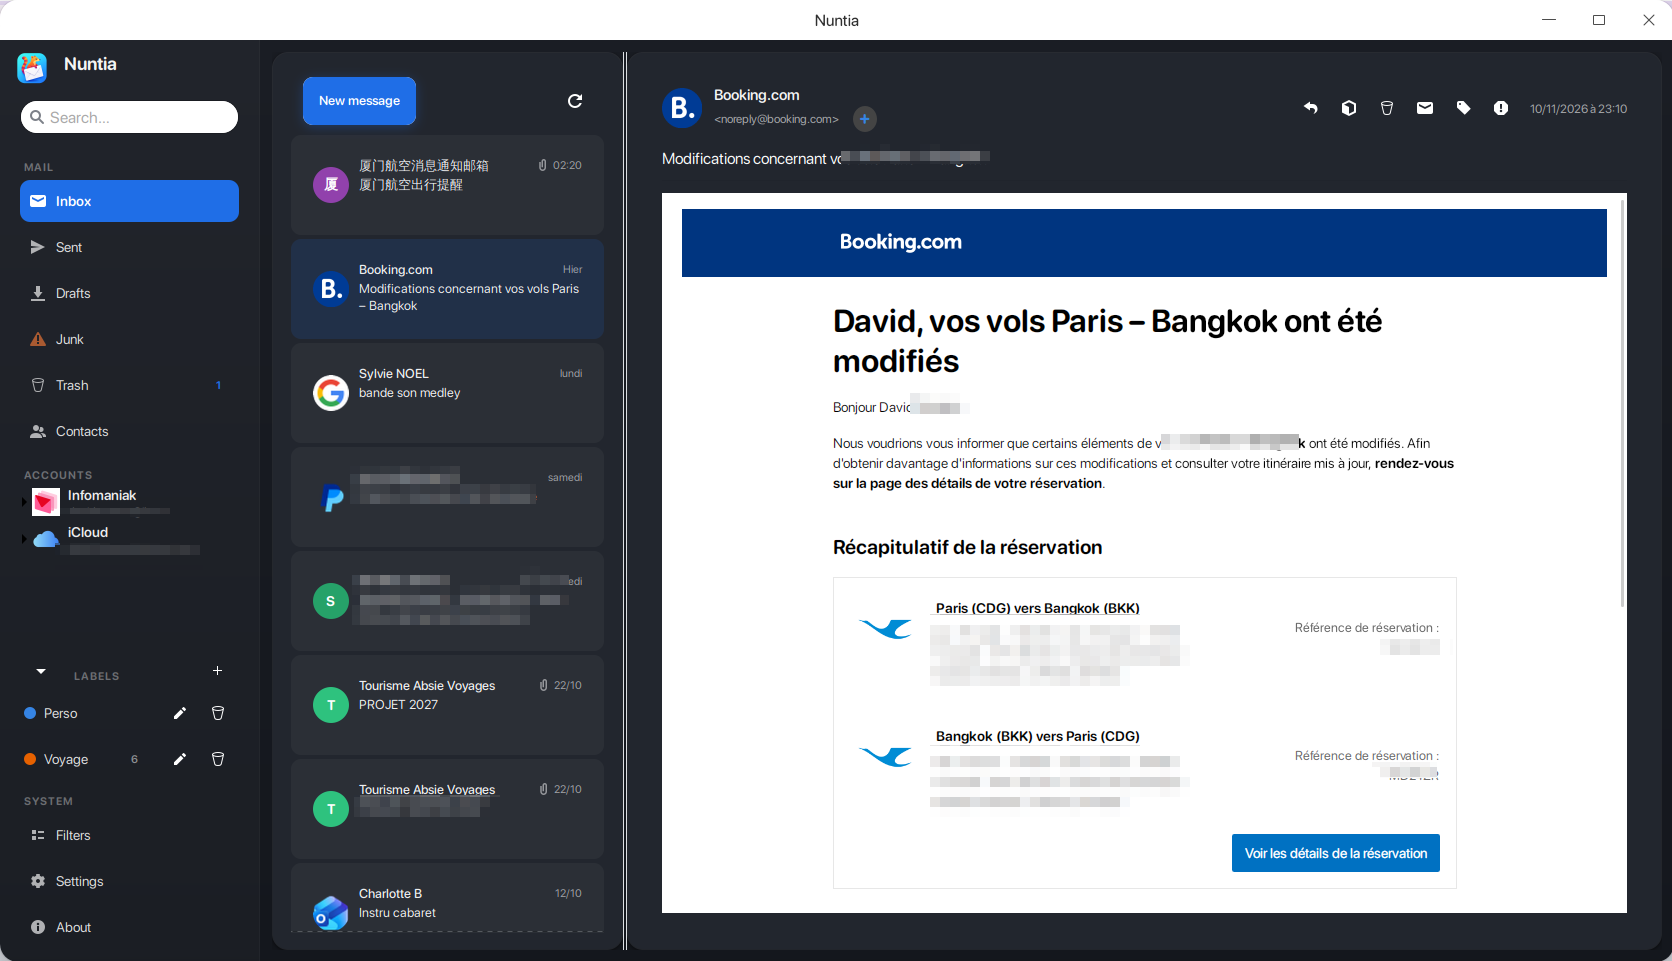
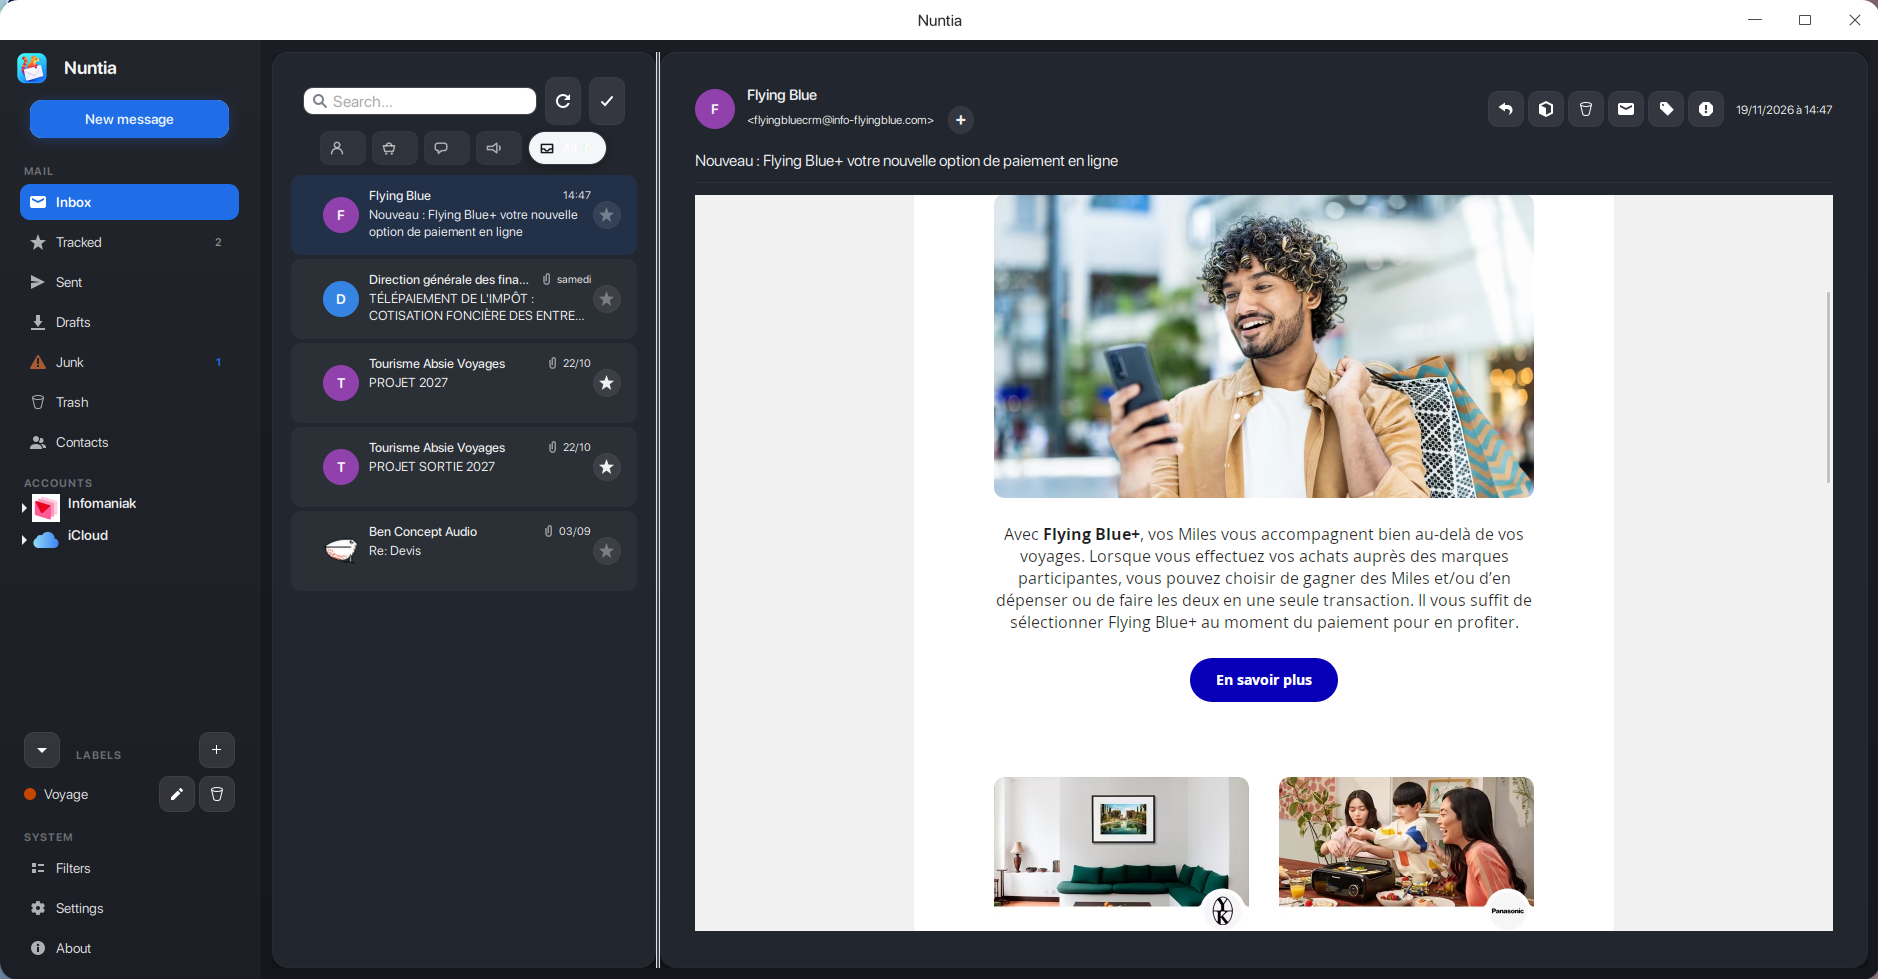
Add files via upload

diff --git a/js/i18n-nuntia.js b/js/i18n-nuntia.js
@@ -2,7 +2,12 @@ window.TRANSLATIONS = {
     en: {
         "nav_home": "Home", "nav_endura": "Endura", "nav_lumina": "Lumina", "nav_luma": "Luma", "nav_nuntia": "Nuntia",
         "hero_title": "Nuntia",
-        "hero_subtitle": "Nuntia is a modern mail client for Deepin. IMAP/SMTP, multi-account, advanced filters, 3-level phishing detection, and 8 languages.",
+		"hero_subtitle": "Nuntia is a modern mail client for Deepin. IMAP/SMTP, multi-account, advanced filters, multi-select, follow system, account editing, 3-level phishing detection, and 8 languages.",
+		"feature5_title": "Follow & organize",
+		"feature5_desc": "Star important messages and find them in a dedicated “Followed” folder. Manage emails in bulk thanks to multi-select.",
+		"feature5_li1": "Persistent star, independent from the IMAP server",
+		"feature5_li2": "Multi-select (Ctrl/Shift + click)",
+		"feature5_li3": "Full editing of existing accounts",
         "hero_btn_features": "Discover the features",
         "hero_btn_download": "Download",
         "footer_bug": "Report a bug",
@@ -39,7 +44,12 @@ window.TRANSLATIONS = {
     fr: {
         "nav_home": "Accueil", "nav_endura": "Endura", "nav_lumina": "Lumina", "nav_luma": "Luma", "nav_nuntia": "Nuntia",
         "hero_title": "Nuntia",
-        "hero_subtitle": "Nuntia est un client mail moderne pour Deepin. IMAP/SMTP, multi-comptes, filtres avancés, détection de phishing à 3 niveaux et 8 langues.",
+		"hero_subtitle": "Nuntia est un client mail moderne pour Deepin. IMAP/SMTP, multi-comptes, filtres avancés, sélection multiple, suivi par étoile, édition de comptes, détection de phishing à 3 niveaux et 8 langues.",
+		"feature5_title": "Suivi et organisation",
+		"feature5_desc": "Marquez vos messages importants d'une étoile, retrouvez-les dans un dossier « Suivis » dédié, et gérez vos mails en masse grâce à la sélection multiple.",
+		"feature5_li1": "Étoile persistante, indépendante du serveur IMAP",
+		"feature5_li2": "Sélection multiple (Ctrl/Shift + clic)",
+		"feature5_li3": "Édition complète des comptes existants",
         "hero_btn_features": "Découvrir les fonctionnalités",
         "hero_btn_download": "Télécharger",
         "footer_bug": "Signaler un bug",
@@ -76,7 +86,12 @@ window.TRANSLATIONS = {
     zh: {
         "nav_home": "首页", "nav_endura": "Endura", "nav_lumina": "Lumina", "nav_luma": "Luma", "nav_nuntia": "Nuntia",
         "hero_title": "Nuntia",
-        "hero_subtitle": "Nuntia 是专为 Deepin 打造的现代邮件客户端。支持 IMAP/SMTP、多账户、高级过滤器、3 级钓鱼检测及 8 种语言。",
+		"hero_subtitle": "Nuntia 是专为 Deepin 打造的现代邮件客户端。支持 IMAP/SMTP、多账户、高级过滤器、多选操作、星标关注、账户编辑、3 级钓鱼检测及 8 种语言。",
+		"feature5_title": "关注与整理",
+		"feature5_desc": "用星标标记重要邮件，在专属「关注」文件夹中随时查找，并借助多选批量处理邮件。",
+		"feature5_li1": "星标持久保留，不依赖 IMAP 服务器",
+		"feature5_li2": "多选操作（Ctrl/Shift + 点击）",
+		"feature5_li3": "完整编辑已有账户",
         "hero_btn_features": "了解功能",
         "hero_btn_download": "下载",
         "footer_bug": "报告错误",

diff --git a/nuntia.html b/nuntia.html
@@ -143,6 +143,30 @@
         </div>
     </section>
 
+      <!-- Feature 5 : Suivi & Organisation -->
+      <section class="feature reveal">
+        <div class="container">
+          <div class="feature-row">
+            <div class="feature-text">
+              <h3 data-i18n="feature5_title"></h3>
+              <p data-i18n="feature5_desc"></p>
+              <ul>
+                <li data-i18n="feature5_li1"></li>
+                <li data-i18n="feature5_li2"></li>
+                <li data-i18n="feature5_li3"></li>
+              </ul>
+            </div>
+            <div class="feature-image">
+              <div class="theme-switcher">
+                <button class="theme-thumb active" data-target="screenshot-tracked-light">☀ Clair</button>
+                <button class="theme-thumb" data-target="screenshot-tracked-dark">🌙 Sombre</button>
+              </div>
+              <img class="screenshot" data-target="screenshot-tracked" src="assets/screenshot-tracked-light.png" alt="Suivi & Organisation" />
+            </div>
+          </div>
+        </div>
+      </section>
+
     <!-- ===== INSTALL ===== -->
     <section id="install" class="install">
         <div class="container">

diff --git a/index.html b/index.html
@@ -65,10 +65,10 @@
                 <article class="app-card reveal" style="--d:0s">
                     <div class="feature-image">
                         <div class="theme-switcher">
-                            <button class="theme-thumb active" data-target="screenshot-nuntia-inbox-light">☀ Clair</button>
-                            <button class="theme-thumb" data-target="screenshot-nuntia-inbox-dark">🌙 Sombre</button>
+                            <button class="theme-thumb active" data-target="screenshot-accounts-light">☀ Clair</button>
+                            <button class="theme-thumb" data-target="screenshot-accounts-dark">🌙 Sombre</button>
                         </div>
-                        <img src="assets/screenshot-nuntia-inbox-light.png" alt="Nuntia" class="screenshot" data-target="screenshot-nuntia-inbox">
+                        <img src="assets/screenshot-accounts-light.png" alt="Nuntia" class="screenshot" data-target="screenshot-accounts">
                     </div>
                     <div class="app-content">
                         <h3 data-i18n="app4_title">Nuntia</h3>
